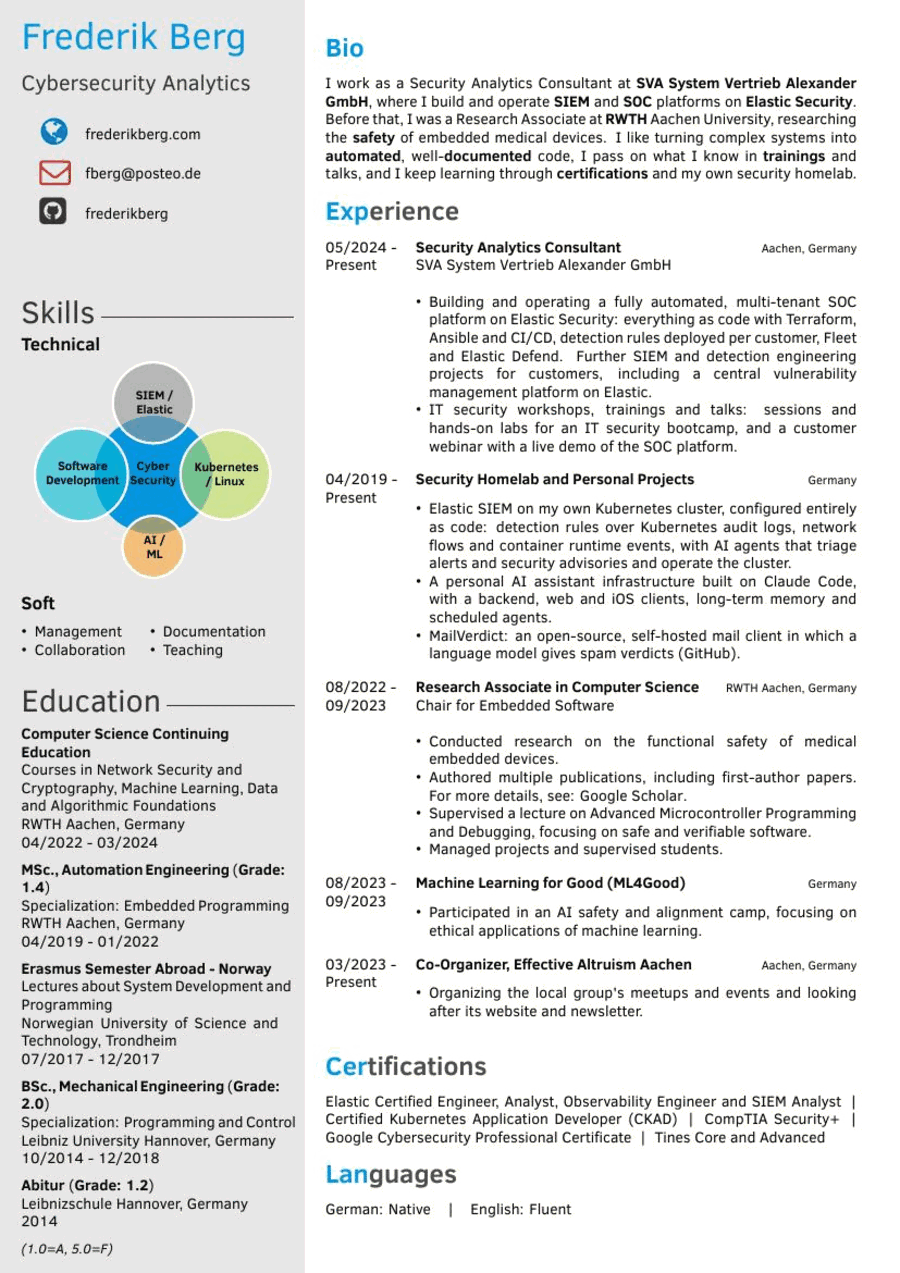
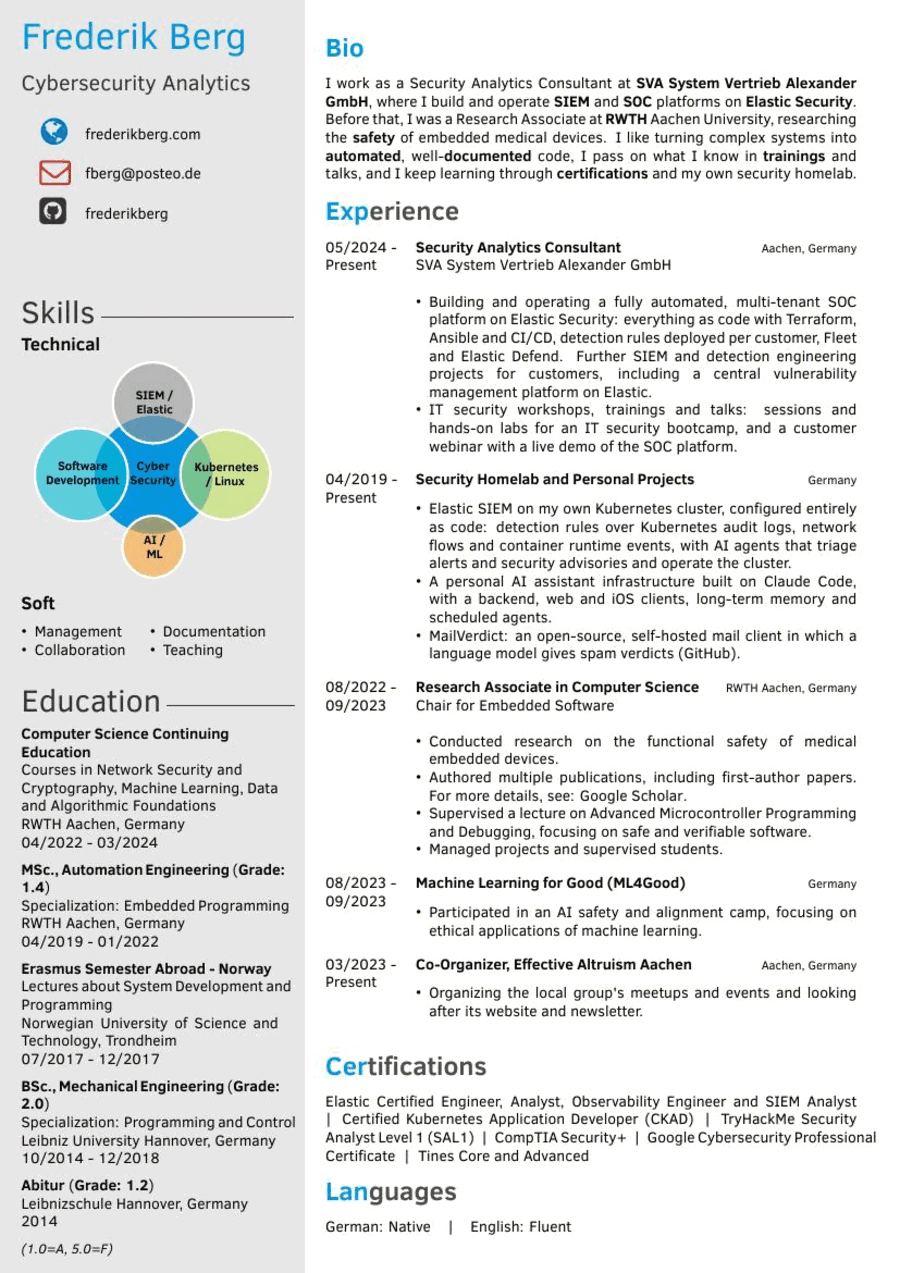
Certifications: add TryHackMe SAL1

Changed region(s): [[0.3422, 0.8578, 0.9644, 0.9804]]

diff --git a/certifications.tex b/certifications.tex
@@ -1,3 +1,3 @@
 % Generated by `make` from the website's data files (src/data in frederikberg/frederikberg).
 % Edit those files, not this one.
-Elastic Certified Engineer, Analyst, Observability Engineer and SIEM Analyst \hspace{1mm}|\hspace{1mm} Certified Kubernetes Application Developer (CKAD) \hspace{1mm}|\hspace{1mm} CompTIA Security+ \hspace{1mm}|\hspace{1mm} Google Cybersecurity Professional Certificate \hspace{1mm}|\hspace{1mm} Tines Core and Advanced
+Elastic Certified Engineer, Analyst, Observability Engineer and SIEM Analyst \hspace{1mm}|\hspace{1mm} Certified Kubernetes Application Developer (CKAD) \hspace{1mm}|\hspace{1mm} TryHackMe Security Analyst Level 1 (SAL1) \hspace{1mm}|\hspace{1mm} CompTIA Security+ \hspace{1mm}|\hspace{1mm} Google Cybersecurity Professional Certificate \hspace{1mm}|\hspace{1mm} Tines Core and Advanced
